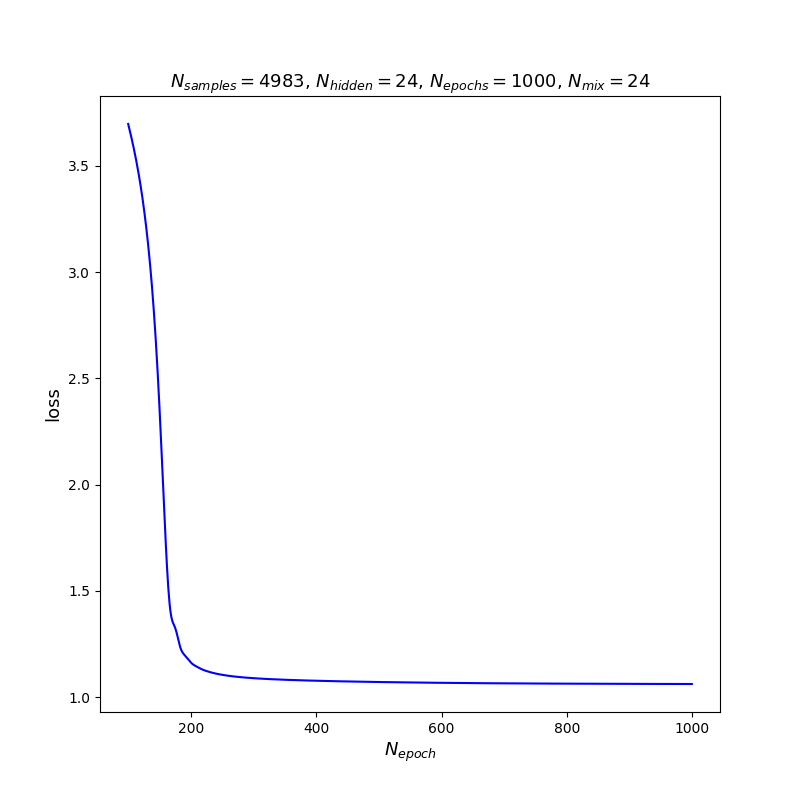
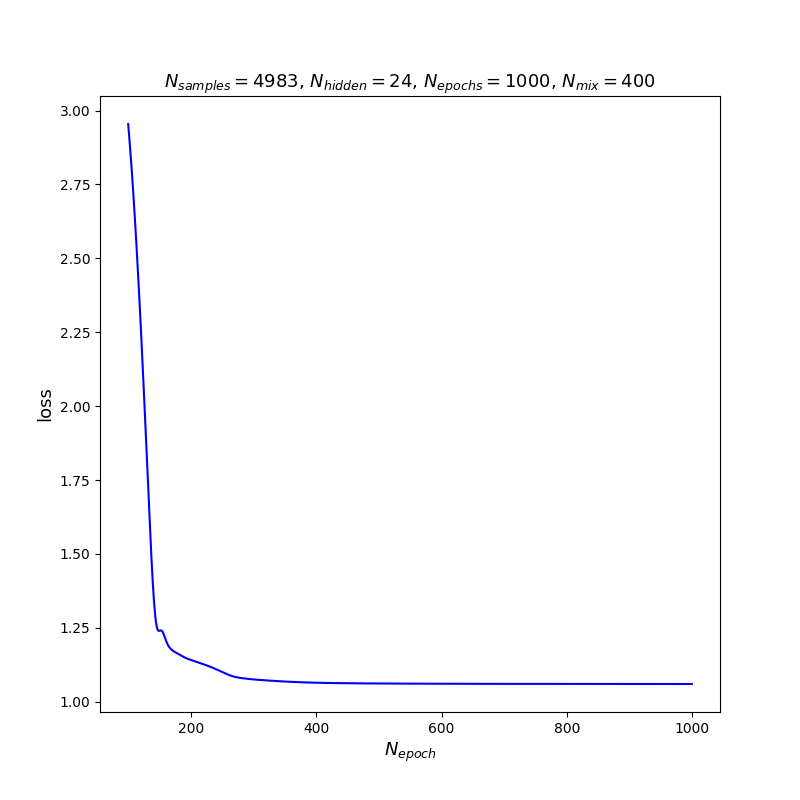
added PDF error

diff --git a/TensorOcean.py b/TensorOcean.py
@@ -1,6 +1,6 @@
 # Mixture density networks for epsilon prediction from individual .nc files
 # Bryan Kaiser
-# 2/16/19
+# 2/25/19
 
 import matplotlib
 matplotlib.use('Agg') # set non-interactive backend for PNGs, called before .pyplot
@@ -31,7 +31,7 @@ SA = np.empty([0])
 CT = np.empty([0])
 eps = np.empty([0])
 z = np.empty([0])
-NMULTI = 4
+NMULTI = 4 # number of variables in the feature vector (each is also a vector)
 
 # loop over folder path
 count = 0
@@ -51,7 +51,6 @@ for j in range(Noffset,Nfiles+Noffset):
    [N2j, SAj, CTj, epsj, zj] = fn.nanrid( N2j, SAj, CTj, epsj, zj )
    [N2j, SAj, CTj, epsj, zj] = fn.remove_outliers( N2j, SAj, CTj, epsj, zj )
    [N2j, SAj, CTj, epsj, zj] = fn.throw_points_in_z( N2j, SAj, CTj, epsj, zj , -2500.)
-   # do bin means
    N2=np.concatenate((N2,N2j),axis=0)
    SA=np.concatenate((SA,SAj),axis=0)
    CT=np.concatenate((CT,CTj),axis=0)
@@ -62,6 +61,10 @@ for j in range(Noffset,Nfiles+Noffset):
 
 #fn.pdf_plot( N2, SA, CT, eps, z )
 NSAMPLE = np.shape(N2)[0]
+
+
+# =============================================================================
+# plot training data
 
 train_log10eps = np.log10(eps)
 binsize1 = int((np.log10(np.amax(eps))-np.log10(np.amin(eps)))/0.05)
@@ -82,6 +85,10 @@ plt.ylabel(r"z",fontsize=13)
 plt.xlabel(r"log$_{10}(\varepsilon)$",fontsize=13)
 plt.title(r"$N_{samples}=$%i" %(NSAMPLE),fontsize=13)
 plt.savefig(plotname,format="png"); plt.close(fig);
+
+
+# =============================================================================
+# training data feature vector / labels
 
 X_DATA = np.zeros([NSAMPLE,NMULTI])
 X_DATA[:,0] = N2[:]
@@ -133,6 +140,9 @@ for j in range(Noffset,Nfiles2+Noffset):
 
 NSAMPLE = np.shape(N2)[0]
 
+# =============================================================================
+# plot training data
+
 test_log10eps = np.log10(eps)
 binsize2 = int((np.log10(np.amax(eps))-np.log10(np.amin(eps)))/0.05)
 plotname = figure_path +'test_histogram_eps.png' 
@@ -153,6 +163,10 @@ plt.xlabel(r"log$_{10}(\varepsilon)$",fontsize=13)
 plt.title(r"$N_{samples}=$%i" %(NSAMPLE),fontsize=13)
 plt.savefig(plotname,format="png"); plt.close(fig);
 
+
+# =============================================================================
+# test data feature vector / labels
+
 X_TEST = np.zeros([NSAMPLE,NMULTI])
 X_TEST[:,0] = N2[:]
 X_TEST[:,1] = z[:]
@@ -166,13 +180,12 @@ z_test = z
 
 
 # =============================================================================
-# A mixture density network
-
+# learning via mixture density network (Bishop 1994)
 
 # construct the MDN:
 NHIDDEN = 24
 STDEV = 0.5
-KMIX = 24 # number of mixtures
+KMIX = 800 # number of mixtures
 NOUT = KMIX * 3 # pi, mu, stdev
 
 x = tf.placeholder(dtype=tf.float32, shape=[None,NMULTI], name="x") 
@@ -192,11 +205,10 @@ out_pi, out_sigma, out_mu = fn.get_mixture_coeff(output,KMIX)
 lossfunc = fn.get_lossfunc(out_pi, out_sigma, out_mu, y)
 train_op = tf.train.AdamOptimizer().minimize(lossfunc)
 
-# training:
+# training the MDN:
 sess = tf.InteractiveSession()
 sess.run(tf.global_variables_initializer())
 
-# = 6000 for NHIDDEN = 24, STDEV = 0.5, KMIX = 24
 NEPOCH = 1000 
 loss = np.zeros(NEPOCH) # store the training progress here.
 for i in range(NEPOCH):
@@ -211,57 +223,81 @@ plt.xlabel(r"$N_{epoch}$",fontsize=13)
 plt.title(r"$N_{samples}=$%i, $N_{hidden}=$%i, $N_{epochs}=$%i, $N_{mix}=$%i" %(NSAMPLE,NHIDDEN,NEPOCH,KMIX),fontsize=13)
 plt.savefig(plotname,format="png"); plt.close(fig);
 
+NENSEMBLE = 20 # number of ensembles with which to populate the PDF
+
 # training data prediction:
 out_pi_train, out_sigma_train, out_mu_train = sess.run(fn.get_mixture_coeff(output,KMIX), feed_dict={x: X_DATA})
-y_train_pred = fn.generate_ensemble( out_pi_train, out_mu_train, out_sigma_train, X_DATA , 10 )
+y_train_pred = fn.generate_ensemble( out_pi_train, out_mu_train, out_sigma_train, X_DATA , NENSEMBLE )
 #print(np.shape(out_pi_train), np.shape(out_sigma_train), np.shape(out_mu_train))
 
 # test data prediction:
 out_pi_test, out_sigma_test, out_mu_test = sess.run(fn.get_mixture_coeff(output,KMIX), feed_dict={x: X_TEST})
-y_test_pred = fn.generate_ensemble( out_pi_test, out_mu_test, out_sigma_test, X_TEST , 10 )
+y_test_pred = fn.generate_ensemble( out_pi_test, out_mu_test, out_sigma_test, X_TEST , NENSEMBLE )
 #print(np.shape(out_pi_test), np.shape(out_sigma_test), np.shape(out_mu_test))
 
 sess.close()
 
-#print(np.shape(y_test_pred))
-#print(np.shape(y_train_pred))
-y_test_pred_f = np.ndarray.flatten(y_test_pred)
-y_train_pred_f = np.ndarray.flatten(y_train_pred)
-#print(np.shape(y_test_pred_f))
-#print(np.shape(y_train_pred_f))
+# predictions:
+y_test_pred_f = np.reshape(y_test_pred,(int(NENSEMBLE*np.shape(y_test_pred)[0]),1))[:,0]
+y_train_pred_f = np.reshape(y_train_pred,(int(NENSEMBLE*np.shape(y_train_pred)[0]),1))[:,0]
+y_test_pred_f = fn.remove_outliers_eps( y_test_pred_f )
+y_train_pred_f = fn.remove_outliers_eps( y_train_pred_f )
 
 
+# =============================================================================
+# MDN prediction plots:
 
-#binsize = int( (np.amax(y_train_pred)-np.amin(y_train_pred))/0.05 )
 plotname = figure_path +'train_histogram_eps_prediction.png' 
 fig = plt.figure(figsize=(8,5))
-#plt.hist(y_train_pred_f, color = 'purple', edgecolor = 'black',bins = binsize1)
-plt.hist(y_train_pred[:,0], color = 'red', edgecolor = 'black',bins = int(binsize1*4), alpha = 0.2,label=r"prediction")
-plt.hist(train_log10eps, color = 'blue', edgecolor = 'black', bins = binsize2, alpha = 0.25,label=r"data")
+plt.hist(y_train_pred_f, color = 'red', edgecolor = 'black',bins = binsize2, density = True, alpha = 0.2,label=r"prediction") # [:,0]
+plt.hist(train_log10eps, color = 'blue', edgecolor = 'black', bins = binsize2, density = True, alpha = 0.25,label=r"data")
 plt.xlabel(r"log$_{10}(\varepsilon)$",fontsize=13)
 plt.ylabel(r"samples",fontsize=13)
-#plt.title(r"training data $N_{samples}=$%i" %(np.shape(y_train_pred_f)[0]),fontsize=13)
-#plt.title(r"training data $N_{samples}=$%i" %(np.shape(y_train_pred[:,0])[0]),fontsize=13)
 plt.title(r"training data, $N_{profiles}=$%i" %(Nfiles0),fontsize=13)
-plt.xlim([-12.5,-6.5]) #0.,np.amax(y_train_pred[:,0])*1.1])
+plt.xlim([-12.5,-6.5]) 
 plt.legend(loc=1)
 plt.savefig(plotname,format="png"); plt.close(fig);
 
-#binsize = int( (np.amax(y_test_pred)-np.amin(y_test_pred))/0.05 )
 plotname = figure_path +'test_histogram_eps_prediction.png' 
 fig = plt.figure(figsize=(8,5))
-#plt.hist(y_test_pred_f, color = 'purple', edgecolor = 'black',bins = binsize2)
-plt.hist(y_test_pred[:,0], color = 'red', edgecolor = 'black',bins = int(binsize2*7), alpha = 0.2,label=r"prediction")
-plt.hist(test_log10eps, color = 'blue', edgecolor = 'black', bins = binsize2, alpha = 0.25,label=r"data")
+plt.hist(y_test_pred_f, color = 'red', edgecolor = 'black',bins = binsize2, density = True, alpha = 0.2,label=r"prediction") # [:,0]
+plt.hist(test_log10eps, color = 'blue', edgecolor = 'black', bins = binsize2, density = True, alpha = 0.25,label=r"data")
 plt.xlabel(r"log$_{10}(\varepsilon)$",fontsize=13)
 plt.ylabel(r"samples",fontsize=13)
-#plt.title(r"test data $N_{samples}=$%i" %(np.shape(y_test_pred_f)[0]),fontsize=13)
-#plt.title(r"test data $N_{samples}=$%i" %(np.shape(y_test_pred[:,0])[0]),fontsize=13)
 plt.title(r"test data, $N_{profiles}=$%i" %(Nfiles2),fontsize=13)
 plt.legend(loc=1)
-plt.xlim([-12.5,-6.5]) #plt.axis([-12.5,-6.5,0.,np.amax(y_test_pred[:,0])*1.1])
+plt.xlim([-12.5,-6.5]) 
 plt.savefig(plotname,format="png"); plt.close(fig);
 
+
+# =============================================================================
+# MDN error:
+
+print('training data = ',fn.get_stats( train_log10eps ))
+print('training result = ',fn.get_stats( y_train_pred_f ))
+print('test data = ',fn.get_stats( test_log10eps ))
+print('test result = ',fn.get_stats( y_test_pred_f ))
+
+
+
+
+
+
+
+
+
+
+
+
+
+
+
+
+
+
+
+
+"""
 plotname = figure_path +'training_prediction_mdn.png' 
 fig = plt.figure(figsize=(8, 8))
 plt.plot(y_data,z_train,'ko',alpha=alpha_level,label=r"training data")
@@ -281,52 +317,10 @@ plt.xlabel(r"log$_{10}(\varepsilon)$",fontsize=13)
 plt.title(r"$N_{samples}=$%i, $N_{hidden}=$%i, $N_{epochs}=$%i, $N_{mix}=$%i" %(NSAMPLE,NHIDDEN,NEPOCH,KMIX),fontsize=13)
 plt.axis([-13,-5.5,-5500.,-1900.])
 plt.savefig(plotname,format="png"); plt.close(fig);
-
-
-"""
-plotname = figure_path +'training_prediction_mdn_priors.png'
-fig = plt.figure(figsize=(8, 8))
-plt.plot(out_pi_train,z_train,'ko',alpha=alpha_level,label=r"priors")
-plt.ylabel(r"z",fontsize=13)
-plt.xlabel(r"$\alpha_i$(z), i=[1,$N_{mix}$]",fontsize=13)
-plt.title(r"$N_{samples}=$%i, $N_{hidden}=$%i, $N_{epochs}=$%i, $N_{mix}=$%i" %(NSAMPLE,NHIDDEN,NEPOCH,KMIX),fontsize=13)
-plt.savefig(plotname,format="png"); plt.close(fig);
-
-plotname = figure_path +'test_prediction_mdn_priors.png'
-fig = plt.figure(figsize=(8, 8))
-plt.plot(out_pi_test,z_test,'ko',alpha=alpha_level,label=r"priors")
-plt.ylabel(r"z",fontsize=13)
-plt.xlabel(r"$\alpha_i$(z), i=[1,$N_{mix}$]",fontsize=13)
-plt.title(r"$N_{samples}=$%i, $N_{hidden}=$%i, $N_{epochs}=$%i, $N_{mix}=$%i" %(NSAMPLE,NHIDDEN,NEPOCH,KMIX),fontsize=13)
-plt.savefig(plotname,format="png"); plt.close(fig);
 """
 
 
 
-
-"""
-plotname = figure_path +'training_prediction_mdn_means.png'
-fig, ax1 = plt.subplots(figsize=(8, 8)) # = plt.figure(figsize=(8, 8))
-plt.plot(out_mu_train,z_train,'bo',alpha=alpha_level,label=r"mixture means")
-plt.plot(y_train_pred,z_train,'ro',alpha=alpha_level,label=r"prediction")
-ax2 = ax1.twinx()
-ax1.set_xlabel(r"x",fontsize=13)
-ax1.set_ylabel(r"y(x)",fontsize=13,color='red')
-ax2.set_ylabel(r"$\mu_i$(x), i=[1,$N_{mix}$]",fontsize=13,color='blue')
-plt.title(r"$N_{samples}=$%i, $N_{hidden}=$%i, $N_{epochs}=$%i, $N_{mix}=$%i" %(NSAMPLE,NHIDDEN,NEPOCH,KMIX),fontsize=13)
-plt.savefig(plotname,format="png"); plt.close(fig);
-
-plotname = figure_path +'test_prediction_mdn_means.png'
-fig, ax1 = plt.subplots(figsize=(8, 8)) # = plt.figure(figsize=(8, 8))
-plt.plot(out_mu_test,z_test,'bo',alpha=alpha_level,label=r"mixture means")
-plt.plot(y_test_pred,z_test,'ro',alpha=alpha_level,label=r"prediction")
-ax2 = ax1.twinx()
-ax1.set_xlabel(r"x",fontsize=13)
-ax1.set_ylabel(r"y(x)",fontsize=13,color='red')
-ax2.set_ylabel(r"$\mu_i$(x), i=[1,$N_{mix}$]",fontsize=13,color='blue')
-plt.title(r"$N_{samples}=$%i, $N_{hidden}=$%i, $N_{epochs}=$%i, $N_{mix}=$%i" %(NSAMPLE,NHIDDEN,NEPOCH,KMIX),fontsize=13)
-plt.savefig(plotname,format="png"); plt.close(fig);
-"""
 
 
 """

diff --git a/functions.py b/functions.py
@@ -335,6 +335,12 @@ def remove_bad_N2( N2 ):
     N2[k] = np.nan
  return N2
 
+def get_stats( A ):
+ sigma = np.nanstd(A)
+ mu = np.nanmean(A)
+ skew = np.nanmean( ((A-mu)/sigma)**3. )
+ kurt = np.nanmean( ((A-mu)/sigma)**4. ) - 3.
+ return mu,sigma,skew,kurt 
 
 def get_hydro(my_file,count):
  f = Dataset(my_file, mode='r')
@@ -398,6 +404,8 @@ def get_hydro(my_file,count):
  #plt.grid()
  plt.savefig(plotname,format="png"); plt.close(fig);
  """
+
+ f.close()
  return N2, SA, CT, eps, z
 
 def throw_points_in_z( N2, SA, CT, eps, z , threshold):
@@ -685,6 +693,21 @@ def remove_outliers( N2, SA, CT, eps, z ):
  Np = np.shape(eps)[0]
 
  return N2, SA, CT, eps, z
+
+
+def remove_outliers_eps( eps ):
+ Np = np.shape(eps)[0]
+ #print(Np)
+ for j in range(0,Np):
+  if eps[j] >= -4:
+   eps[j] = np.nan
+  if eps[j] <= -12:
+   eps[j] = np.nan
+ locs = np.argwhere(np.isnan(eps)-1)
+ #print(locs)
+ eps = eps[locs]
+ return eps
+
 
 def pdf_plot( N2, SA, CT, eps, z ):
  
